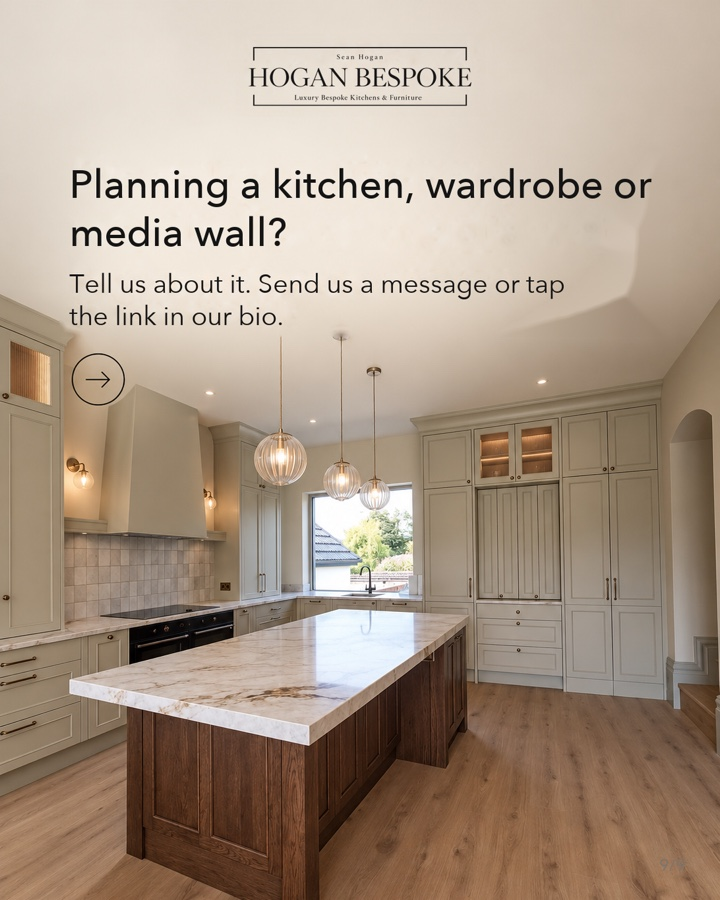
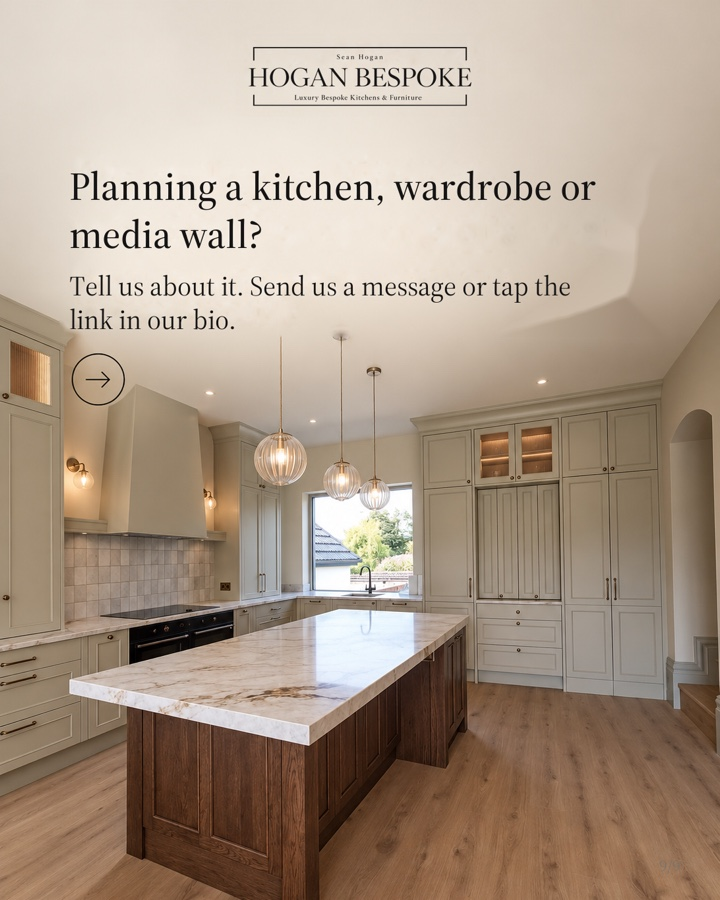
Hogan post 1: same serif on every slide

Changed region(s): [[0.0917, 0.1867, 0.9167, 0.3733]]

diff --git a/public/approve/hogan-bespoke-x96pyh/index.html b/public/approve/hogan-bespoke-x96pyh/index.html
@@ -37,7 +37,7 @@
     <span>Eli Fátima · Irish Business Boosters · hello@irishbusinessboosters.com</span>
   </footer>
 </div>
-<script id="approval-data" type="application/json">{"page": "hogan-bespoke-x96pyh", "client": "Sean", "username": "hogan_bespoke_furniture", "avatar": "logo.png", "location": "Waterford, Ireland", "profile": {"id": "profile", "title": "New bio and highlights", "chips": ["Pick one bio"], "intro": "This is how your profile will look by the end of November: the new bio, the new highlight covers and the new posts at the top.", "about": "Both bios say who you are, what you make, and that you fit all over Ireland. Pick the one that sounds more like you.", "name": "Hogan Bespoke | Kitchens Ireland", "category": "Kitchen & cabinet designer", "link": "hoganbespokefurniture.com", "stats": ["175", "1,407", "609"], "choices": [{"id": "Bio A", "label": "Bio A · leads with the title", "bio": "IrelandSkills cabinetmaking champion 🏆\nBespoke kitchens, wardrobes & media walls\nHandmade in Waterford · Fitted all over Ireland\n👇 Get a quote"}, {"id": "Bio B", "label": "Bio B · softer", "bio": "Award-winning cabinetmaker 🏆\nKitchens, wardrobes, media walls & stairs\nHandmade in Waterford · Fitted all over Ireland\n👇 Get a quote"}], "highlights": [{"src": "covers/light-01-our-story.jpg", "name": "Our Story"}, {"src": "covers/light-02-kitchens.jpg", "name": "Kitchens"}, {"src": "covers/light-03-reviews.jpg", "name": "Reviews"}, {"src": "covers/light-04-wardrobes.jpg", "name": "Wardrobes"}, {"src": "covers/light-05-media-walls.jpg", "name": "Media Walls"}, {"src": "covers/light-06-commercial.jpg", "name": "Commercial"}, {"src": "covers/light-07-process.jpg", "name": "Process"}, {"src": "covers/light-08-joinery.jpg", "name": "Joinery"}, {"src": "covers/light-09-get-a-quote.jpg", "name": "Get a Quote"}], "grid": ["posts/08-commercial.jpg?v=3", "posts/07-christmas-media-wall.jpg?v=3", "posts/06-wardrobes.jpg?v=3", "posts/05-workshop.jpg?v=3", "posts/04-kitchens.jpg?v=3", "posts/03-the-reveal.jpg?v=3", "posts/02-what-we-make.jpg?v=3", "posts/01-slide-01.jpg?v=8", "posts/old-2026-trim-castle-hotel.jpg?v=3"]}, "postsTitle": "Your November posts", "postsIntro": "Eight posts, Mondays and Thursdays. Post 1 is fully designed; for the others you're seeing the cover, and we'll finish the slides as soon as the photos and details are in. The yellow bits are details we still need from you.", "posts": [{"id": "post-01", "date": "2026-11-02", "kind": "carousel", "title": "Come on in", "chips": ["Carousel · 9 slides", "Pinned to the top"], "images": ["posts/01-slide-01.jpg?v=9", "posts/01-slide-02.jpg?v=9", "posts/01-slide-03.jpg?v=10", "posts/01-slide-04.jpg?v=10", "posts/01-slide-05.jpg?v=10", "posts/01-slide-06.jpg?v=10", "posts/01-slide-07.jpg?v=10", "posts/01-slide-08.jpg?v=10", "posts/01-slide-09.jpg?v=10"], "about": "Our first post: the story of the company in nine slides, from the IrelandSkills title in 2017 to opening the workshop in 2020 and everything we make today.", "need": "Is there anything you'd change in the story? And if you have the original of the IrelandSkills photo, it would look sharper.", "caption": "Come on in. This is how we started.\n\nIn 2017, our founder Sean Hogan won IrelandSkills, the national championship for cabinetmaking, and went on to captain Team Ireland at WorldSkills in Abu Dhabi.\n\nIn August 2020, in the middle of a pandemic, we opened our workshop in Waterford.\n\nSince then we've designed and built kitchens, wardrobes, media walls and stairs for homes all over Ireland, and fitted out hotels and businesses like Trim Castle Hotel.\n\nEverything is still made by hand in our own workshop, to the same standard.\n\nOver the coming weeks we'll show you more of the work, and how it's made. Glad to have you here.", "tags": "#bespokekitchens #irishkitchens #handmadeinireland #bespokefurniture #waterford"}, {"id": "post-02", "date": "2026-11-05", "kind": "carousel", "title": "What we make", "chips": ["Carousel · 7 slides", "Pinned to the top", "Cover shown"], "images": ["posts/02-what-we-make.jpg?v=3"], "about": "A clear menu of everything you do, one slide per service. It stays pinned so anyone landing on your profile sees it straight away.", "need": "Is anything missing from the list? And do you do handleless kitchens?", "caption": "Everything we make is designed and built for one room only. Here's what that covers:\n\n· Kitchens: shaker, in-frame and handleless, painted or natural wood\n· Wardrobes: fitted, sliding and walk-in\n· Media walls: TV units, fireplaces, shelving and lighting\n· Stairs & joinery: staircases, drinks units, panelling and doors\n· Home offices and utility rooms\n· Commercial fit-outs: hotels, bars, offices and public buildings\n\nWe fit all over Ireland. Tell us what you're planning: send us a message or tap the link in our bio.", "tags": "#bespokefurniture #bespokekitchens #fittedwardrobes #mediawall #madeinireland"}, {"id": "post-03", "date": "2026-11-09", "kind": "reel", "length": "15 s", "title": "The reveal: navy kitchen", "chips": ["Reel"], "images": ["posts/03-the-reveal.jpg?v=3"], "about": "A slow walk into the navy kitchen, past the island, a drawer opening and closing softly. Calm music, no talking.", "need": "A video of this kitchen, if you have one (even a short phone clip). If not, I'll make it from the photos. Roughly how many weeks did it take?", "caption": "Every one of our kitchens is designed and built for one room only.\n\nThis one: navy painted shaker doors, premium stone worktops and a waterfall island. [X] weeks from first measure to final fit.\n\nPlanning a kitchen for 2027? Send us a message or tap the link in our bio.", "tags": "#bespokekitchens #navykitchen #irishkitchens #kitchendesignireland"}, {"id": "post-04", "date": "2026-11-12", "kind": "carousel", "title": "What we make: Kitchens", "chips": ["Carousel · 6 slides", "Series: What we make", "Cover shown"], "images": ["posts/04-kitchens.jpg?v=3"], "about": "The first of the \"What we make\" series. Slides: the styles (shaker, in-frame, handleless) · the materials · what's included · how long it takes · how to start.", "need": "How long does a kitchen usually take, from first visit to fitted? And which worktops do you use most?", "caption": "What goes into a Hogan Bespoke kitchen?\n\n· The style: shaker, in-frame or handleless\n· The wood: solid oak, ash or walnut, painted or natural\n· The worktop: [quartz, stone or solid wood]\n· The design: you see it in 3D before we cut a single board\n· The timing: around [X] weeks from first visit to final fit\n\nAll made in our workshop in Waterford and fitted by our own team, anywhere in Ireland.\n\nSwipe for the details 👉", "tags": "#bespokekitchens #shakerkitchen #irishkitchens #kitchendesignireland"}, {"id": "post-05", "date": "2026-11-16", "kind": "reel", "length": "15–20 s", "title": "From the workshop", "chips": ["Reel"], "images": ["posts/05-workshop.jpg?v=3"], "about": "Quick clips of hands and timber: cutting, shaping, sanding and assembling a door, with the real workshop sound. Ends on the finished piece.", "need": "We film this together on Tuesday 27 October. Five minutes at the bench is plenty.", "caption": "Before it's a kitchen door, it's a board of [timber] on our bench in Waterford.\n\nWe cut, shape, sand and assemble everything ourselves, so we control every millimetre, and nothing arrives on site that we haven't checked by hand.", "tags": "#handmadeinireland #cabinetmaker #bespokefurniture #waterford"}, {"id": "post-06", "date": "2026-11-19", "kind": "carousel", "title": "What we make: Wardrobes", "chips": ["Carousel · 6 slides", "Series: What we make", "Cover shown"], "images": ["posts/06-wardrobes.jpg?v=3"], "about": "Series, part 2. Slides: fitted · sliding · walk-in · children's rooms · what goes inside (rails, drawers, shoe racks, lighting).", "caption": "Fitted, sliding or walk-in: every wardrobe we make is built around the room and what goes in it.\n\nInside, you choose: hanging rails and pull-down rails, drawers, shoe racks, shelving and LED lighting.\n\nSwipe to see the options 👉\n\nThinking about a wardrobe? Send us a message with a photo of the space.", "tags": "#fittedwardrobes #walkinwardrobe #bespokefurniture #irishhomes"}, {"id": "post-07", "date": "2026-11-23", "kind": "reel", "length": "10–15 s", "title": "The room you'll spend Christmas in", "chips": ["Reel", "Christmas"], "images": ["posts/07-christmas-media-wall.jpg?v=3"], "about": "Starts on a detail (the LED light, a shelf) and opens out to the whole media wall, with the fire on.", "need": "A video of a media wall with the lights or fire on, if you have one.", "caption": "The room everyone ends up in at Christmas.\n\nThis media wall hides every cable, frames the fire and lights up the shelves, all built to fit the room to the millimetre.\n\nToo late for this Christmas? Plenty of time for the next one. Send us a message.", "tags": "#mediawall #livingroomideas #irishhomes #christmasathome"}, {"id": "post-08", "date": "2026-11-26", "kind": "carousel", "title": "What we make: Commercial", "chips": ["Carousel · 6 slides", "Series: What we make", "Cover shown"], "images": ["posts/08-commercial.jpg?v=3"], "about": "Series, part 3: the Trim Castle Hotel fit-out, with the other businesses you've built for on the last slide.", "need": "Are you happy for us to name The Fitzwilton, Bausch + Lomb, Clonmel Credit Union and the Garda station? I can leave out any of them.", "caption": "It's not only homes.\n\nWe recently completed the fit-out at Trim Castle Hotel: [what we built, e.g. the bar and back bar], made in our Waterford workshop and fitted on site.\n\nOver the years we've also built for The Fitzwilton Hotel, Bausch + Lomb, Clonmel Credit Union and Waterford Garda Station.\n\nPlanning a fit-out? Email sales@hoganbespoke.com.", "tags": "#commercialjoinery #hotelinteriors #shopfitting #madeinireland"}]}</script>
+<script id="approval-data" type="application/json">{"page": "hogan-bespoke-x96pyh", "client": "Sean", "username": "hogan_bespoke_furniture", "avatar": "logo.png", "location": "Waterford, Ireland", "profile": {"id": "profile", "title": "New bio and highlights", "chips": ["Pick one bio"], "intro": "This is how your profile will look by the end of November: the new bio, the new highlight covers and the new posts at the top.", "about": "Both bios say who you are, what you make, and that you fit all over Ireland. Pick the one that sounds more like you.", "name": "Hogan Bespoke | Kitchens Ireland", "category": "Kitchen & cabinet designer", "link": "hoganbespokefurniture.com", "stats": ["175", "1,407", "609"], "choices": [{"id": "Bio A", "label": "Bio A · leads with the title", "bio": "IrelandSkills cabinetmaking champion 🏆\nBespoke kitchens, wardrobes & media walls\nHandmade in Waterford · Fitted all over Ireland\n👇 Get a quote"}, {"id": "Bio B", "label": "Bio B · softer", "bio": "Award-winning cabinetmaker 🏆\nKitchens, wardrobes, media walls & stairs\nHandmade in Waterford · Fitted all over Ireland\n👇 Get a quote"}], "highlights": [{"src": "covers/light-01-our-story.jpg", "name": "Our Story"}, {"src": "covers/light-02-kitchens.jpg", "name": "Kitchens"}, {"src": "covers/light-03-reviews.jpg", "name": "Reviews"}, {"src": "covers/light-04-wardrobes.jpg", "name": "Wardrobes"}, {"src": "covers/light-05-media-walls.jpg", "name": "Media Walls"}, {"src": "covers/light-06-commercial.jpg", "name": "Commercial"}, {"src": "covers/light-07-process.jpg", "name": "Process"}, {"src": "covers/light-08-joinery.jpg", "name": "Joinery"}, {"src": "covers/light-09-get-a-quote.jpg", "name": "Get a Quote"}], "grid": ["posts/08-commercial.jpg?v=3", "posts/07-christmas-media-wall.jpg?v=3", "posts/06-wardrobes.jpg?v=3", "posts/05-workshop.jpg?v=3", "posts/04-kitchens.jpg?v=3", "posts/03-the-reveal.jpg?v=3", "posts/02-what-we-make.jpg?v=3", "posts/01-slide-01.jpg?v=8", "posts/old-2026-trim-castle-hotel.jpg?v=3"]}, "postsTitle": "Your November posts", "postsIntro": "Eight posts, Mondays and Thursdays. Post 1 is fully designed; for the others you're seeing the cover, and we'll finish the slides as soon as the photos and details are in. The yellow bits are details we still need from you.", "posts": [{"id": "post-01", "date": "2026-11-02", "kind": "carousel", "title": "Come on in", "chips": ["Carousel · 9 slides", "Pinned to the top"], "images": ["posts/01-slide-01.jpg?v=9", "posts/01-slide-02.jpg?v=9", "posts/01-slide-03.jpg?v=11", "posts/01-slide-04.jpg?v=11", "posts/01-slide-05.jpg?v=11", "posts/01-slide-06.jpg?v=11", "posts/01-slide-07.jpg?v=11", "posts/01-slide-08.jpg?v=11", "posts/01-slide-09.jpg?v=11"], "about": "Our first post: the story of the company in nine slides, from the IrelandSkills title in 2017 to opening the workshop in 2020 and everything we make today.", "need": "Is there anything you'd change in the story? And if you have the original of the IrelandSkills photo, it would look sharper.", "caption": "Come on in. This is how we started.\n\nIn 2017, our founder Sean Hogan won IrelandSkills, the national championship for cabinetmaking, and went on to captain Team Ireland at WorldSkills in Abu Dhabi.\n\nIn August 2020, in the middle of a pandemic, we opened our workshop in Waterford.\n\nSince then we've designed and built kitchens, wardrobes, media walls and stairs for homes all over Ireland, and fitted out hotels and businesses like Trim Castle Hotel.\n\nEverything is still made by hand in our own workshop, to the same standard.\n\nOver the coming weeks we'll show you more of the work, and how it's made. Glad to have you here.", "tags": "#bespokekitchens #irishkitchens #handmadeinireland #bespokefurniture #waterford"}, {"id": "post-02", "date": "2026-11-05", "kind": "carousel", "title": "What we make", "chips": ["Carousel · 7 slides", "Pinned to the top", "Cover shown"], "images": ["posts/02-what-we-make.jpg?v=3"], "about": "A clear menu of everything you do, one slide per service. It stays pinned so anyone landing on your profile sees it straight away.", "need": "Is anything missing from the list? And do you do handleless kitchens?", "caption": "Everything we make is designed and built for one room only. Here's what that covers:\n\n· Kitchens: shaker, in-frame and handleless, painted or natural wood\n· Wardrobes: fitted, sliding and walk-in\n· Media walls: TV units, fireplaces, shelving and lighting\n· Stairs & joinery: staircases, drinks units, panelling and doors\n· Home offices and utility rooms\n· Commercial fit-outs: hotels, bars, offices and public buildings\n\nWe fit all over Ireland. Tell us what you're planning: send us a message or tap the link in our bio.", "tags": "#bespokefurniture #bespokekitchens #fittedwardrobes #mediawall #madeinireland"}, {"id": "post-03", "date": "2026-11-09", "kind": "reel", "length": "15 s", "title": "The reveal: navy kitchen", "chips": ["Reel"], "images": ["posts/03-the-reveal.jpg?v=3"], "about": "A slow walk into the navy kitchen, past the island, a drawer opening and closing softly. Calm music, no talking.", "need": "A video of this kitchen, if you have one (even a short phone clip). If not, I'll make it from the photos. Roughly how many weeks did it take?", "caption": "Every one of our kitchens is designed and built for one room only.\n\nThis one: navy painted shaker doors, premium stone worktops and a waterfall island. [X] weeks from first measure to final fit.\n\nPlanning a kitchen for 2027? Send us a message or tap the link in our bio.", "tags": "#bespokekitchens #navykitchen #irishkitchens #kitchendesignireland"}, {"id": "post-04", "date": "2026-11-12", "kind": "carousel", "title": "What we make: Kitchens", "chips": ["Carousel · 6 slides", "Series: What we make", "Cover shown"], "images": ["posts/04-kitchens.jpg?v=3"], "about": "The first of the \"What we make\" series. Slides: the styles (shaker, in-frame, handleless) · the materials · what's included · how long it takes · how to start.", "need": "How long does a kitchen usually take, from first visit to fitted? And which worktops do you use most?", "caption": "What goes into a Hogan Bespoke kitchen?\n\n· The style: shaker, in-frame or handleless\n· The wood: solid oak, ash or walnut, painted or natural\n· The worktop: [quartz, stone or solid wood]\n· The design: you see it in 3D before we cut a single board\n· The timing: around [X] weeks from first visit to final fit\n\nAll made in our workshop in Waterford and fitted by our own team, anywhere in Ireland.\n\nSwipe for the details 👉", "tags": "#bespokekitchens #shakerkitchen #irishkitchens #kitchendesignireland"}, {"id": "post-05", "date": "2026-11-16", "kind": "reel", "length": "15–20 s", "title": "From the workshop", "chips": ["Reel"], "images": ["posts/05-workshop.jpg?v=3"], "about": "Quick clips of hands and timber: cutting, shaping, sanding and assembling a door, with the real workshop sound. Ends on the finished piece.", "need": "We film this together on Tuesday 27 October. Five minutes at the bench is plenty.", "caption": "Before it's a kitchen door, it's a board of [timber] on our bench in Waterford.\n\nWe cut, shape, sand and assemble everything ourselves, so we control every millimetre, and nothing arrives on site that we haven't checked by hand.", "tags": "#handmadeinireland #cabinetmaker #bespokefurniture #waterford"}, {"id": "post-06", "date": "2026-11-19", "kind": "carousel", "title": "What we make: Wardrobes", "chips": ["Carousel · 6 slides", "Series: What we make", "Cover shown"], "images": ["posts/06-wardrobes.jpg?v=3"], "about": "Series, part 2. Slides: fitted · sliding · walk-in · children's rooms · what goes inside (rails, drawers, shoe racks, lighting).", "caption": "Fitted, sliding or walk-in: every wardrobe we make is built around the room and what goes in it.\n\nInside, you choose: hanging rails and pull-down rails, drawers, shoe racks, shelving and LED lighting.\n\nSwipe to see the options 👉\n\nThinking about a wardrobe? Send us a message with a photo of the space.", "tags": "#fittedwardrobes #walkinwardrobe #bespokefurniture #irishhomes"}, {"id": "post-07", "date": "2026-11-23", "kind": "reel", "length": "10–15 s", "title": "The room you'll spend Christmas in", "chips": ["Reel", "Christmas"], "images": ["posts/07-christmas-media-wall.jpg?v=3"], "about": "Starts on a detail (the LED light, a shelf) and opens out to the whole media wall, with the fire on.", "need": "A video of a media wall with the lights or fire on, if you have one.", "caption": "The room everyone ends up in at Christmas.\n\nThis media wall hides every cable, frames the fire and lights up the shelves, all built to fit the room to the millimetre.\n\nToo late for this Christmas? Plenty of time for the next one. Send us a message.", "tags": "#mediawall #livingroomideas #irishhomes #christmasathome"}, {"id": "post-08", "date": "2026-11-26", "kind": "carousel", "title": "What we make: Commercial", "chips": ["Carousel · 6 slides", "Series: What we make", "Cover shown"], "images": ["posts/08-commercial.jpg?v=3"], "about": "Series, part 3: the Trim Castle Hotel fit-out, with the other businesses you've built for on the last slide.", "need": "Are you happy for us to name The Fitzwilton, Bausch + Lomb, Clonmel Credit Union and the Garda station? I can leave out any of them.", "caption": "It's not only homes.\n\nWe recently completed the fit-out at Trim Castle Hotel: [what we built, e.g. the bar and back bar], made in our Waterford workshop and fitted on site.\n\nOver the years we've also built for The Fitzwilton Hotel, Bausch + Lomb, Clonmel Credit Union and Waterford Garda Station.\n\nPlanning a fit-out? Email sales@hoganbespoke.com.", "tags": "#commercialjoinery #hotelinteriors #shopfitting #madeinireland"}]}</script>
 <script src="/approve/_assets/approve.js?v=3"></script>
 </body>
 </html>
